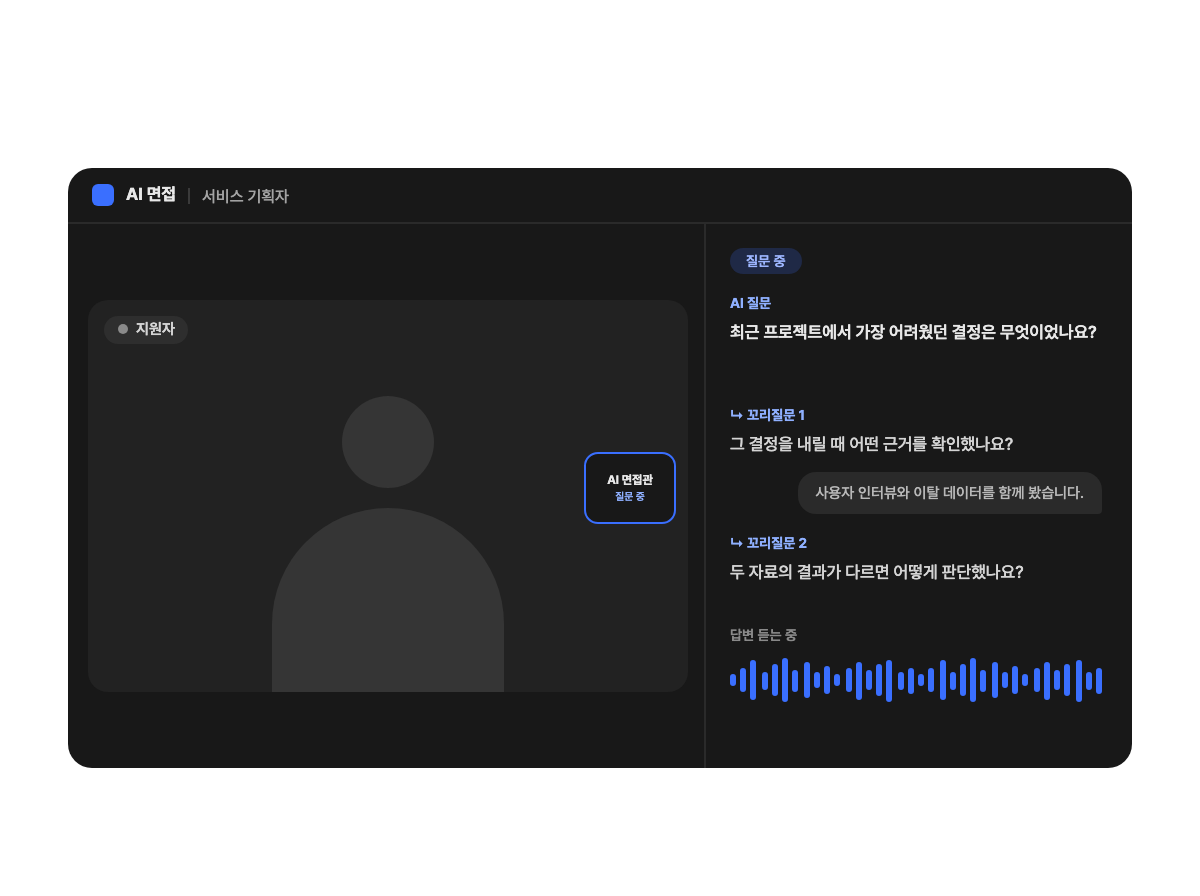
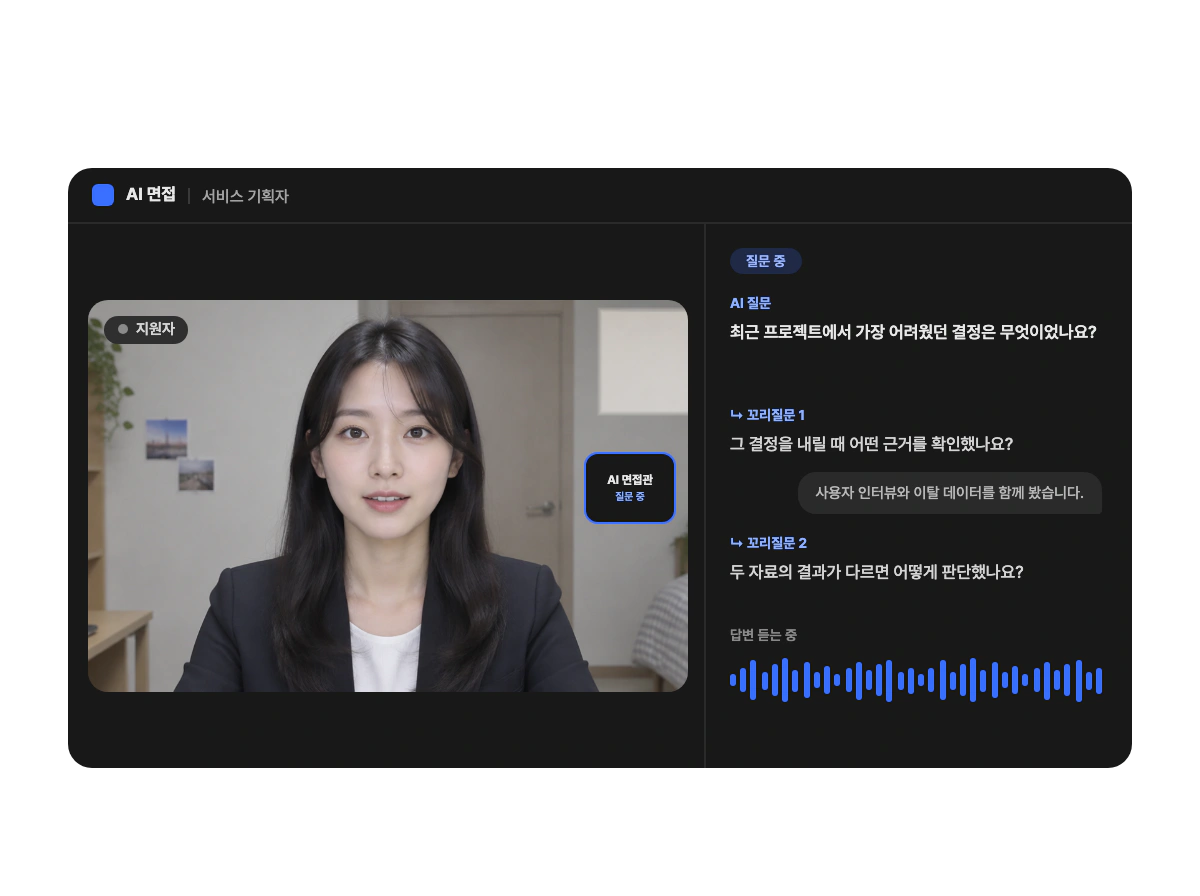
AI 면접 히어로: 지원자 영상 칸에 실제 인물 사진(사용자가 준 목업 '실 정면')
- 회색 실루엣 → 목업 인물 사진을 원본 배경 그대로 칸에 맞춤(얼굴 확인과 같은 방식). 제품 페이지 히어로와
  함께 쓰는 순서 1단계 썸네일(홈·두 제품 페이지)에 같이 적용
- 사진이 들어가 무손실 webp가 16KB → 198KB가 되어, 손실 q95 + sharp_yuv로 56KB(글자 주변 뭉개짐 없음 확인)

Changed region(s): [[0.0617, 0.3125, 0.5858, 0.7812]]

diff --git a/CLAUDE.md b/CLAUDE.md
@@ -26,7 +26,7 @@ Supercoder AI 웹사이트 — **AIVIEW** 제품 랜딩 + 블로그/도입문의
   - `app/privacy`, `app/terms`, `app/terms-applicant` — 법적 페이지(서버). `app/not-found.tsx` — 404.
 - **공유 디자인 토큰·컴포넌트 CSS는 `app/globals.css` (SSOT).** `:root` 변수(`--blue`,`--ink`,`--soft`,`--r`,`--shadow` 등)·버튼(`.btn*`)·`.eyebrow`·GNB(`header`/`nav`)·푸터(`footer`)·모달(`.bro-*`)·챗봇(`.cbot*`)·법적 페이지(`.legal`)가 모두 여기. 루트 `layout.tsx`에서 1회 import. **공유 컴포넌트를 바꿀 땐 `app/globals.css`만 고치면 전 페이지가 함께 바뀐다.**
 - **페이지 고유 CSS는 라우트 폴더에 co-located** (`app/landing.css`, `app/apply/apply.css`, `app/blog/blog.css`, `app/blog/[id]/post.css`, `app/admin/admin.css`). 해당 page에서 import. 클래스는 전역 스코프(원본 정적 사이트와 동일 동작).
-- **공유 컴포넌트(`components/`):** `SiteHeader`(섹션 인지형 GNB·메뉴. '제품▾' 펼침 메뉴 항목은 `PRODUCTS` 배열 하나를 데스크톱·모바일이 함께 쓴다), `SiteFooter`, `Chatbot`(FAQ 챗봇), `HeroParticles`(canvas 입자 모션, 히어로·CTA 공용), `Analytics`·`UtmCapture`·`ViewCounter`. 모두 `layout.tsx`에 마운트되거나 page에서 사용. `"use client"`. 홈·제품 페이지가 같이 쓰는 섹션은 서버 컴포넌트 `PageHero`(홈 전용 다크 히어로, 강조어는 `HeroWord`)·`ProductHero`(제품 상세 페이지 히어로 — 밝은 바탕 + 오른쪽 제품 이미지 `public/hero-*.webp`, 두 제품 모두 밝은 바탕 + 같은 어두운 제품 화면(#181818 계열, 2026-11-25 AI 면접도 AI 역량검사 색으로 맞춤). AI 역량검사는 실제 응시 화면 캡처를 가공한 것, AI 면접은 캡처가 없어 같은 색으로 캡처 배치대로 그린 것 — 둘 다 `_docs/홈페이지 개편/도식/캡처가공/make.mjs`. 화면 그림은 `HeroStage`(바탕·점선·레이어 — ProductFlow 썸네일과 공용). `layers`·`lines`를 주면 바탕 위에 투명 레이어를 겹쳐 레이어마다 움직인다 — AI 역량검사는 `public/hero-assessment-*.webp`, AI 면접은 `public/hero-interview-*.webp`(화면·AI 면접관 카드·리포트·칩, 캔버스 600×448 — `size`로 맞춤). 레이어에 `orb`를 주면 그 레이어와 함께 움직이는 오브를 겹친다.)·`LiveOrb`(움직이는 AI 면접관 오브, 클라이언트 — 제품과 같은 `lib/interviewerOrb.js`를 dynamic import해 이미지 속 정지 오브 자리를 바탕색으로 덮고 말하기 모드로 그린다. 원본은 `_docs/홈페이지 개편/AI면접관_orb/`)·`AskDemo`(AI 면접 '면접 진행' 그림 — 히어로 AI 면접관 카드와 같은 모양을 HTML로, 질문 → 꼬리질문 + `LiveOrb`)·`AssistDemo`(AI 역량검사 '과제 화면' 그림 — 히어로 AI 어시스턴트 카드를 HTML로, 지시 → AI 답) — 둘 다 `DemoPanel`(연한 판 + 화면에 들어오면 `.ad-1` → `.ad-2`가 차례로 나타나는 9초 반복 모션)·`StepFlow`(3단계 카드 줄, 단계마다 `img`를 주면 카드 아래에 실제 화면을 꽉 차게 붙인다 — `.pstep.has-shot`)·`TeamSection`(채용팀 기능, 두 제품 공용)·`ClientLogos`(도입사 로고 마퀴)·`ReportRows`(리포트 4종)·`MotionDiagram`(모션 도식 — 이미지가 아니라 페이지에 바로 넣는 SVG, `components/motionDiagrams.ts`. AI 면접 리포트 4종(줄 써짐·원 그래프/막대·육각형 모양 변화·강점·약점 카드 동시 등장)과 AI 역량검사 진행 방식 3장(과정 평가 리플레이·AI 인터뷰 대화·평가와 근거). 다시 뽑기는 `_docs/홈페이지 개편/도식/모션도식_만들기_make-motion.py`, 11/26)·`IntegritySection`(부정행위 감지 — 왼쪽 감지 항목 7개(11/26 AI 안경 다시 추가), 오른쪽 HTML '감지 내역' 예시 카드, 홈은 `withLink`)·`SecuritySection`(좌우 분할 — 왼쪽 제목·ISO 인증 마크, 오른쪽 보안 항목 목록)·`FaqList`(FAQ 목록)·`SoftCta`(중간 안내 한 줄+버튼 — 홈 서비스소개서 안내)·`TypeTabs`(유형 섹션 — 면접 유형·과제 유형을 탭으로 고르기, 11/26. 그림은 `TypeDemo` — 도입 단계 이미지와 같은 결의 창을 HTML로 그려 글이 한 글자씩 써지고 요소가 차례로 나타남(채용공고·이력서는 흰 창, 과제 3종은 실제 응시 화면 색), 좌표는 360×240 기준을 cqw로. 원본 이미지 `public/type-*.webp`는 남겨 둠)·`ProductFlow`(제품 페이지 끝 다른 제품 안내·홈 05 — 함께 쓰는 순서: AI 면접 → AI 역량검사 → 대면 면접 세 단계, 1·2단계 그림은 각 제품 히어로 화면 `HeroStage`, 3단계는 반대로 카드 전체가 어둡고(`.pf-step.dark`, 문제 띠와 같은 남색→블랙) 그림 속 '핵심 후보' 화면은 흰색(`public/f2f-*.webp`, 가상 이름 + 사용자가 준 목업 인물 사진), 카드 사이 흰 원 꺾쇠, 상대 제품 카드에만 버튼, 11/26)·`FinalCta`(마지막 CTA, `points`를 주면 버튼 아래 차별점 띠 — AI 역량검사) — 스타일은 `app/landing.css`. 제품 이름·주소·한 줄 설명은 `lib/products.ts`(GNB·푸터·홈 카드·ProductFlow 공용 — 단계 설명 `when`, 히어로 화면 데이터 `HERO`(바탕·레이어·점선·크기, ProductHero와 ProductFlow 썸네일이 같이 씀)도 여기), ISO 인증 목록은 `lib/certs.ts`(푸터·보안 섹션 공용). 제품 문구의 사실 근거·금지 표현은 `_docs/홈페이지 개편/AI면접_AI역량검사_차이_소개자료.md`. ⚠ `CostCalculator.tsx`는 **어디에도 마운트돼 있지 않다**(미사용). 소개서 리드는 옛 `BrochureModal`이 아니라 `app/brochure/` 라우트가 담당한다.
+- **공유 컴포넌트(`components/`):** `SiteHeader`(섹션 인지형 GNB·메뉴. '제품▾' 펼침 메뉴 항목은 `PRODUCTS` 배열 하나를 데스크톱·모바일이 함께 쓴다), `SiteFooter`, `Chatbot`(FAQ 챗봇), `HeroParticles`(canvas 입자 모션, 히어로·CTA 공용), `Analytics`·`UtmCapture`·`ViewCounter`. 모두 `layout.tsx`에 마운트되거나 page에서 사용. `"use client"`. 홈·제품 페이지가 같이 쓰는 섹션은 서버 컴포넌트 `PageHero`(홈 전용 다크 히어로, 강조어는 `HeroWord`)·`ProductHero`(제품 상세 페이지 히어로 — 밝은 바탕 + 오른쪽 제품 이미지 `public/hero-*.webp`, 두 제품 모두 밝은 바탕 + 같은 어두운 제품 화면(#181818 계열, 2026-11-25 AI 면접도 AI 역량검사 색으로 맞춤). AI 역량검사는 실제 응시 화면 캡처를 가공한 것, AI 면접은 캡처가 없어 같은 색으로 캡처 배치대로 그린 것(지원자 영상 칸은 사용자가 준 목업 인물 사진, 11/26) — 둘 다 `_docs/홈페이지 개편/도식/캡처가공/make.mjs`. 화면 그림은 `HeroStage`(바탕·점선·레이어 — ProductFlow 썸네일과 공용). `layers`·`lines`를 주면 바탕 위에 투명 레이어를 겹쳐 레이어마다 움직인다 — AI 역량검사는 `public/hero-assessment-*.webp`, AI 면접은 `public/hero-interview-*.webp`(화면·AI 면접관 카드·리포트·칩, 캔버스 600×448 — `size`로 맞춤). 레이어에 `orb`를 주면 그 레이어와 함께 움직이는 오브를 겹친다.)·`LiveOrb`(움직이는 AI 면접관 오브, 클라이언트 — 제품과 같은 `lib/interviewerOrb.js`를 dynamic import해 이미지 속 정지 오브 자리를 바탕색으로 덮고 말하기 모드로 그린다. 원본은 `_docs/홈페이지 개편/AI면접관_orb/`)·`AskDemo`(AI 면접 '면접 진행' 그림 — 히어로 AI 면접관 카드와 같은 모양을 HTML로, 질문 → 꼬리질문 + `LiveOrb`)·`AssistDemo`(AI 역량검사 '과제 화면' 그림 — 히어로 AI 어시스턴트 카드를 HTML로, 지시 → AI 답) — 둘 다 `DemoPanel`(연한 판 + 화면에 들어오면 `.ad-1` → `.ad-2`가 차례로 나타나는 9초 반복 모션)·`StepFlow`(3단계 카드 줄, 단계마다 `img`를 주면 카드 아래에 실제 화면을 꽉 차게 붙인다 — `.pstep.has-shot`)·`TeamSection`(채용팀 기능, 두 제품 공용)·`ClientLogos`(도입사 로고 마퀴)·`ReportRows`(리포트 4종)·`MotionDiagram`(모션 도식 — 이미지가 아니라 페이지에 바로 넣는 SVG, `components/motionDiagrams.ts`. AI 면접 리포트 4종(줄 써짐·원 그래프/막대·육각형 모양 변화·강점·약점 카드 동시 등장)과 AI 역량검사 진행 방식 3장(과정 평가 리플레이·AI 인터뷰 대화·평가와 근거). 다시 뽑기는 `_docs/홈페이지 개편/도식/모션도식_만들기_make-motion.py`, 11/26)·`IntegritySection`(부정행위 감지 — 왼쪽 감지 항목 7개(11/26 AI 안경 다시 추가), 오른쪽 HTML '감지 내역' 예시 카드, 홈은 `withLink`)·`SecuritySection`(좌우 분할 — 왼쪽 제목·ISO 인증 마크, 오른쪽 보안 항목 목록)·`FaqList`(FAQ 목록)·`SoftCta`(중간 안내 한 줄+버튼 — 홈 서비스소개서 안내)·`TypeTabs`(유형 섹션 — 면접 유형·과제 유형을 탭으로 고르기, 11/26. 그림은 `TypeDemo` — 도입 단계 이미지와 같은 결의 창을 HTML로 그려 글이 한 글자씩 써지고 요소가 차례로 나타남(채용공고·이력서는 흰 창, 과제 3종은 실제 응시 화면 색), 좌표는 360×240 기준을 cqw로. 원본 이미지 `public/type-*.webp`는 남겨 둠)·`ProductFlow`(제품 페이지 끝 다른 제품 안내·홈 05 — 함께 쓰는 순서: AI 면접 → AI 역량검사 → 대면 면접 세 단계, 1·2단계 그림은 각 제품 히어로 화면 `HeroStage`, 3단계는 반대로 카드 전체가 어둡고(`.pf-step.dark`, 문제 띠와 같은 남색→블랙) 그림 속 '핵심 후보' 화면은 흰색(`public/f2f-*.webp`, 가상 이름 + 사용자가 준 목업 인물 사진), 카드 사이 흰 원 꺾쇠, 상대 제품 카드에만 버튼, 11/26)·`FinalCta`(마지막 CTA, `points`를 주면 버튼 아래 차별점 띠 — AI 역량검사) — 스타일은 `app/landing.css`. 제품 이름·주소·한 줄 설명은 `lib/products.ts`(GNB·푸터·홈 카드·ProductFlow 공용 — 단계 설명 `when`, 히어로 화면 데이터 `HERO`(바탕·레이어·점선·크기, ProductHero와 ProductFlow 썸네일이 같이 씀)도 여기), ISO 인증 목록은 `lib/certs.ts`(푸터·보안 섹션 공용). 제품 문구의 사실 근거·금지 표현은 `_docs/홈페이지 개편/AI면접_AI역량검사_차이_소개자료.md`. ⚠ `CostCalculator.tsx`는 **어디에도 마운트돼 있지 않다**(미사용). 소개서 리드는 옛 `BrochureModal`이 아니라 `app/brochure/` 라우트가 담당한다.
 - **섹션 = 랜딩 구조 (정의된 이름·번호·id).** `app/page.tsx`는 번호 매겨진 섹션 스택이다. 정식 목록(2026-11 개편, 11/26 정리): 01 히어로(`#hero`), 02 도입사(`#clients`), 03 문제(`#flood` — 제품 페이지와 같은 문제(x) → 해결(체크) 카드 `PairGrid light`, 연한 하늘색 바탕, 통계 4개가 문제 줄), 04 역할·깔때기(`#role`, 흰 바탕), 05 해결·제품 2종(`#products` — 카드 위 그림은 `AskDemo`·`AssistDemo`), 06 함께 쓰는 순서(`#flow`, `ProductFlow` — `current` 없이 두 제품 카드 모두 버튼, 3단계 카드에 검사 결과 등급 뱃지), 07 부정행위 감지(`#integrity`), 08 보안(`#security`), 09 성과·후기(`#voices` — 케이스 카드 2장(넥슨·대량 채용 / 디피니트·경력직, `CASES` in `app/page.tsx`, 11/26 후기 말풍선 대체 — 블로그 썸네일(`public/cases/*.webp`) + 회사명 공개 + 카드 전체가 원문 블로그 링크, 근거는 `_docs/홈페이지 개편/케이스스터디_정리.md`) 아래 서비스소개서 안내. 속도·비용 절감 성과 카드는 추산·예시 계산이라 실제 사례 옆에 두지 않으려고 11/26 뺐다), 10 FAQ(`#faq`, 홈만 흰 바탕 `.faq.white`), 11 마지막 CTA(`#final`). 리포트 4종·도입 3단계는 홈에서 뺐다(제품 페이지에만). 배경은 흰색↔연한 블루가 번갈아 오도록 둔다(공용 섹션 틀 `.band`/`.band.soft`). GNB는 섹션 앵커를 쓰지 않는다 — 메뉴는 제품▾(`/ai-interview`·`/ai-assessment`)·블로그·서비스소개서·이벤트(2026-11-24). 부정행위 감지·보안은 메뉴가 아니라 홈·제품 페이지 본문에서 보여준다.
 - **섹션 인지형 GNB:** `[data-nav="dark"]` 섹션(히어로·FINAL) 위에선 헤더 반전(흰 로고). 색 전환 클래스(`header.nav-invert`/`.nav-solid`)는 `globals.css`(SSOT), 감지 로직은 `SiteHeader.tsx`의 `syncHeader`.
 - **폰트·아이콘은 자체 호스팅 서브셋(2026-08-10 성능 최적화):** `layout.tsx`가 `pretendard.css`(woff2 청크만 jsdelivr)와 `fontawesome.css`를 import한다. 아이콘은 `<i className="fa-...">`로 쓰되, **`app/fontawesome.css`에 정의된 아이콘만 쓸 수 있다** — `public/fonts/`의 woff2도 pyftsubset으로 잘라낸 상태라 목록에 없는 이름을 쓰면 버튼은 동작해도 글리프가 렌더되지 않는다(2026-08-21 `fa-flask` 사례). 새 아이콘이 꼭 필요하면 CSS 룰 추가 + 폰트 재서브셋이 함께 필요하다. Supabase는 `@supabase/supabase-js`(npm).
